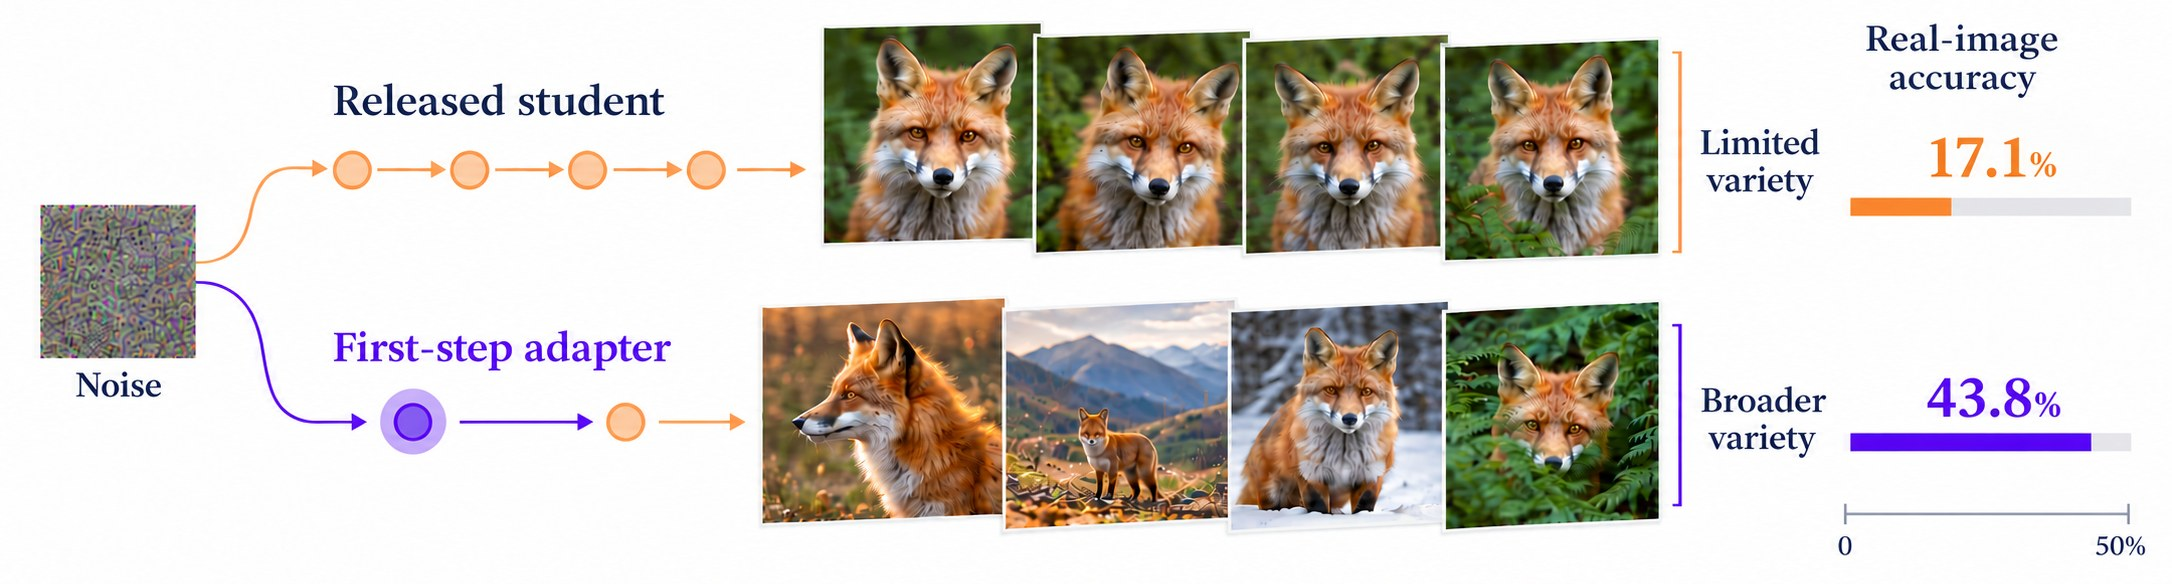
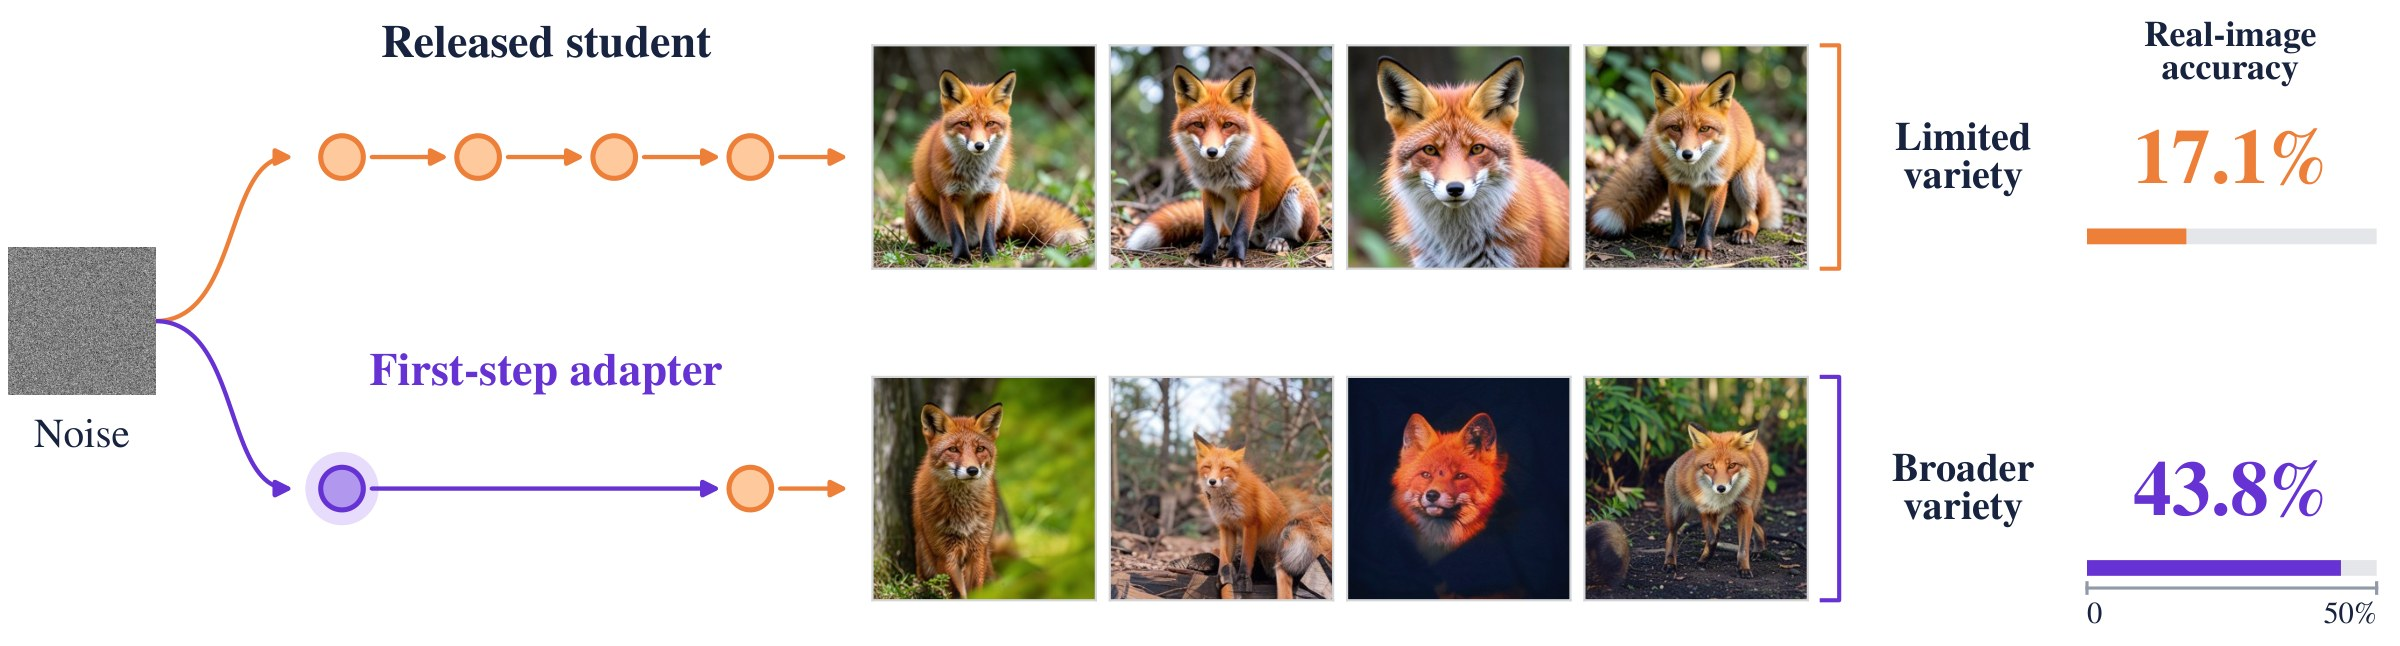
Teaser from the paper's vector figure and its new caption; source comment

diff --git a/index.html b/index.html
@@ -233,10 +233,10 @@
 <section class="hero teaser">
   <div class="container is-fullhd">
     <div class="hero-body">
-      <img src="static/images/teaser.jpg" width="2172" height="584" alt="Two sampling paths from the same noise for the prompt class red fox. Top: the released FLUX.2-klein student takes four steps and produces four near-identical frontal fox portraits; classifiers trained on its images reach 17.1% real-image accuracy. Bottom: the first-step adapter makes one jump, the unchanged student finishes in one more step, and the foxes vary in pose, scale and scene; accuracy rises to 43.8%." style="width:100%; height:auto;" />
+      <img src="static/images/teaser.jpg" width="2400" height="646" alt="Two sampling paths from the same Gaussian noise for the class red fox. Top: the released FLUX.2-klein student takes four steps, and its four fox images look alike; classifiers trained on its images reach 17.1% real-image accuracy. Bottom: the first-step adapter makes one jump, the unchanged student finishes in one more step, and the foxes differ more in pose, framing and background; accuracy rises to 43.8%." style="width:100%; height:auto;" />
       <p class="subtitle has-text-centered" style="font-size: 0.875rem; margin-top: 1.25rem;">
         <strong>First-step adaptation restores variety and improves learning from synthetic images.</strong>
-        The adapter learns to jump to an intermediate state of the unguided base, replacing the released FLUX.2-klein student's first three predictions. The unchanged student then finishes generation, with two denoiser evaluations instead of four. Fox images schematically illustrate the contrast in within-class variety. ResNet-50 top-1 accuracy on real ImageNet-100 rises from 17.1&nbsp;&plusmn;&nbsp;0.4% to <strong>43.8&nbsp;&plusmn;&nbsp;0.4%</strong> after training on 500 generated images per class (mean &plusmn; SD; N&nbsp;=&nbsp;3 classifier seeds for the released student, 3 adapter runs &times; 3 classifier seeds for ours).
+        The adapter learns to jump to an intermediate state of the unguided base, replacing the released FLUX.2-klein student's first three predictions. The unchanged student then finishes generation, requiring two denoiser evaluations instead of four. Fox images show one selected class with matched prompts and noise seeds. ResNet-50 top-1 accuracy on real ImageNet-100 rises from 17.1&nbsp;&plusmn;&nbsp;0.4% to <strong>43.8&nbsp;&plusmn;&nbsp;0.4%</strong> after training on 500 generated images per class (mean &plusmn; SD; N&nbsp;=&nbsp;3 classifier seeds for the released student, 3 adapter runs &times; 3 classifier seeds for ours).
       </p>
     </div>
   </div>

diff --git a/static/js/figures.js b/static/js/figures.js
@@ -1,10 +1,8 @@
 // Interactive sections for the Fast and Useful page: grouped accuracy bars
 // (main results, fine-grained transfer) and accuracy against
 // generation time. Numbers are the paper draft's
-// (Overleaf 154b522): Table S-main-complete (tables/t1-main.tex) for the
-// main and cost charts, plus the two unguided-base cells only Table 1
-// (t1-scale-transfer) has: klein 20 steps at 200 classes and SD 2.1 at
-// ImageNet-1k. Seconds per image at full precision from
+// (Overleaf 18d7faa): Table S-main-complete (tables/t1-main.tex) for the
+// main and cost charts. Seconds per image at full precision from
 // code/results/sets.csv (the input of Fig. 4); Table 4 (t3-finegrained);
 // Fig. 3 for SDA and DP-DMD. Plain SVG, no libraries.
 (function () {
